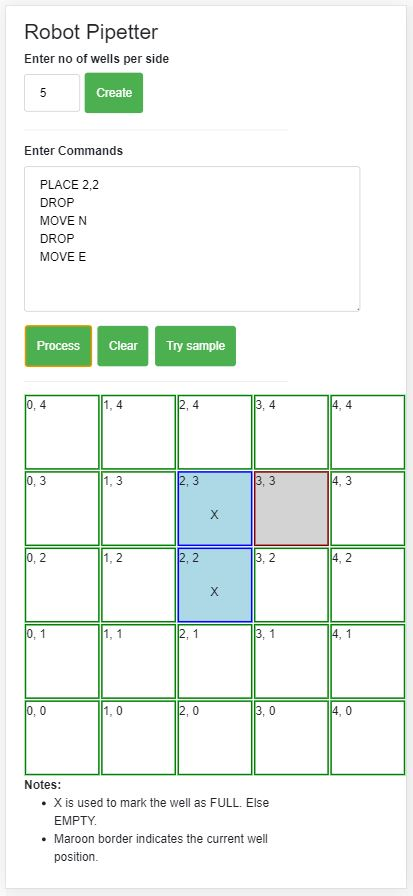
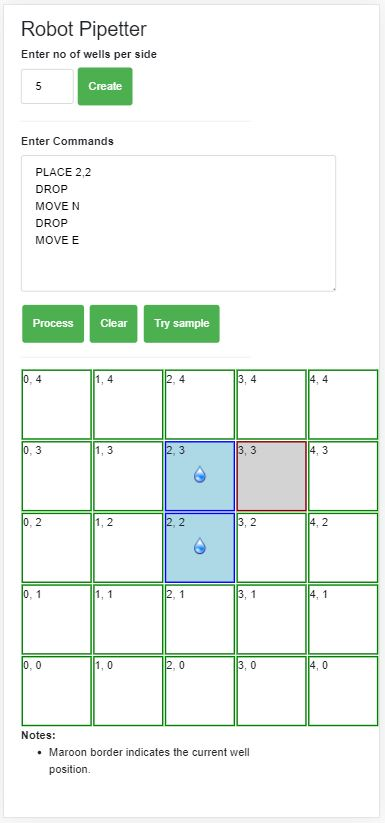
replaced x with drop image.

Changed region(s): [[0.0312, 0.3341, 0.9974, 0.9721], [0.0623, 0.0, 0.4052, 0.3038]]

diff --git a/README.md b/README.md
@@ -5,7 +5,7 @@
 A robot for pipetting can be operated by the below commands:
 
 * PLACE - Positions the pipetter at the start.
-* DROP - Places a drop in the current well. Marked as **X**.
+* DROP - Places a drop in the current well. The pipette marks the well with a drop.
 * MOVE - Moves the pipetter one position North, South, East, West.
 
 ### Sample
